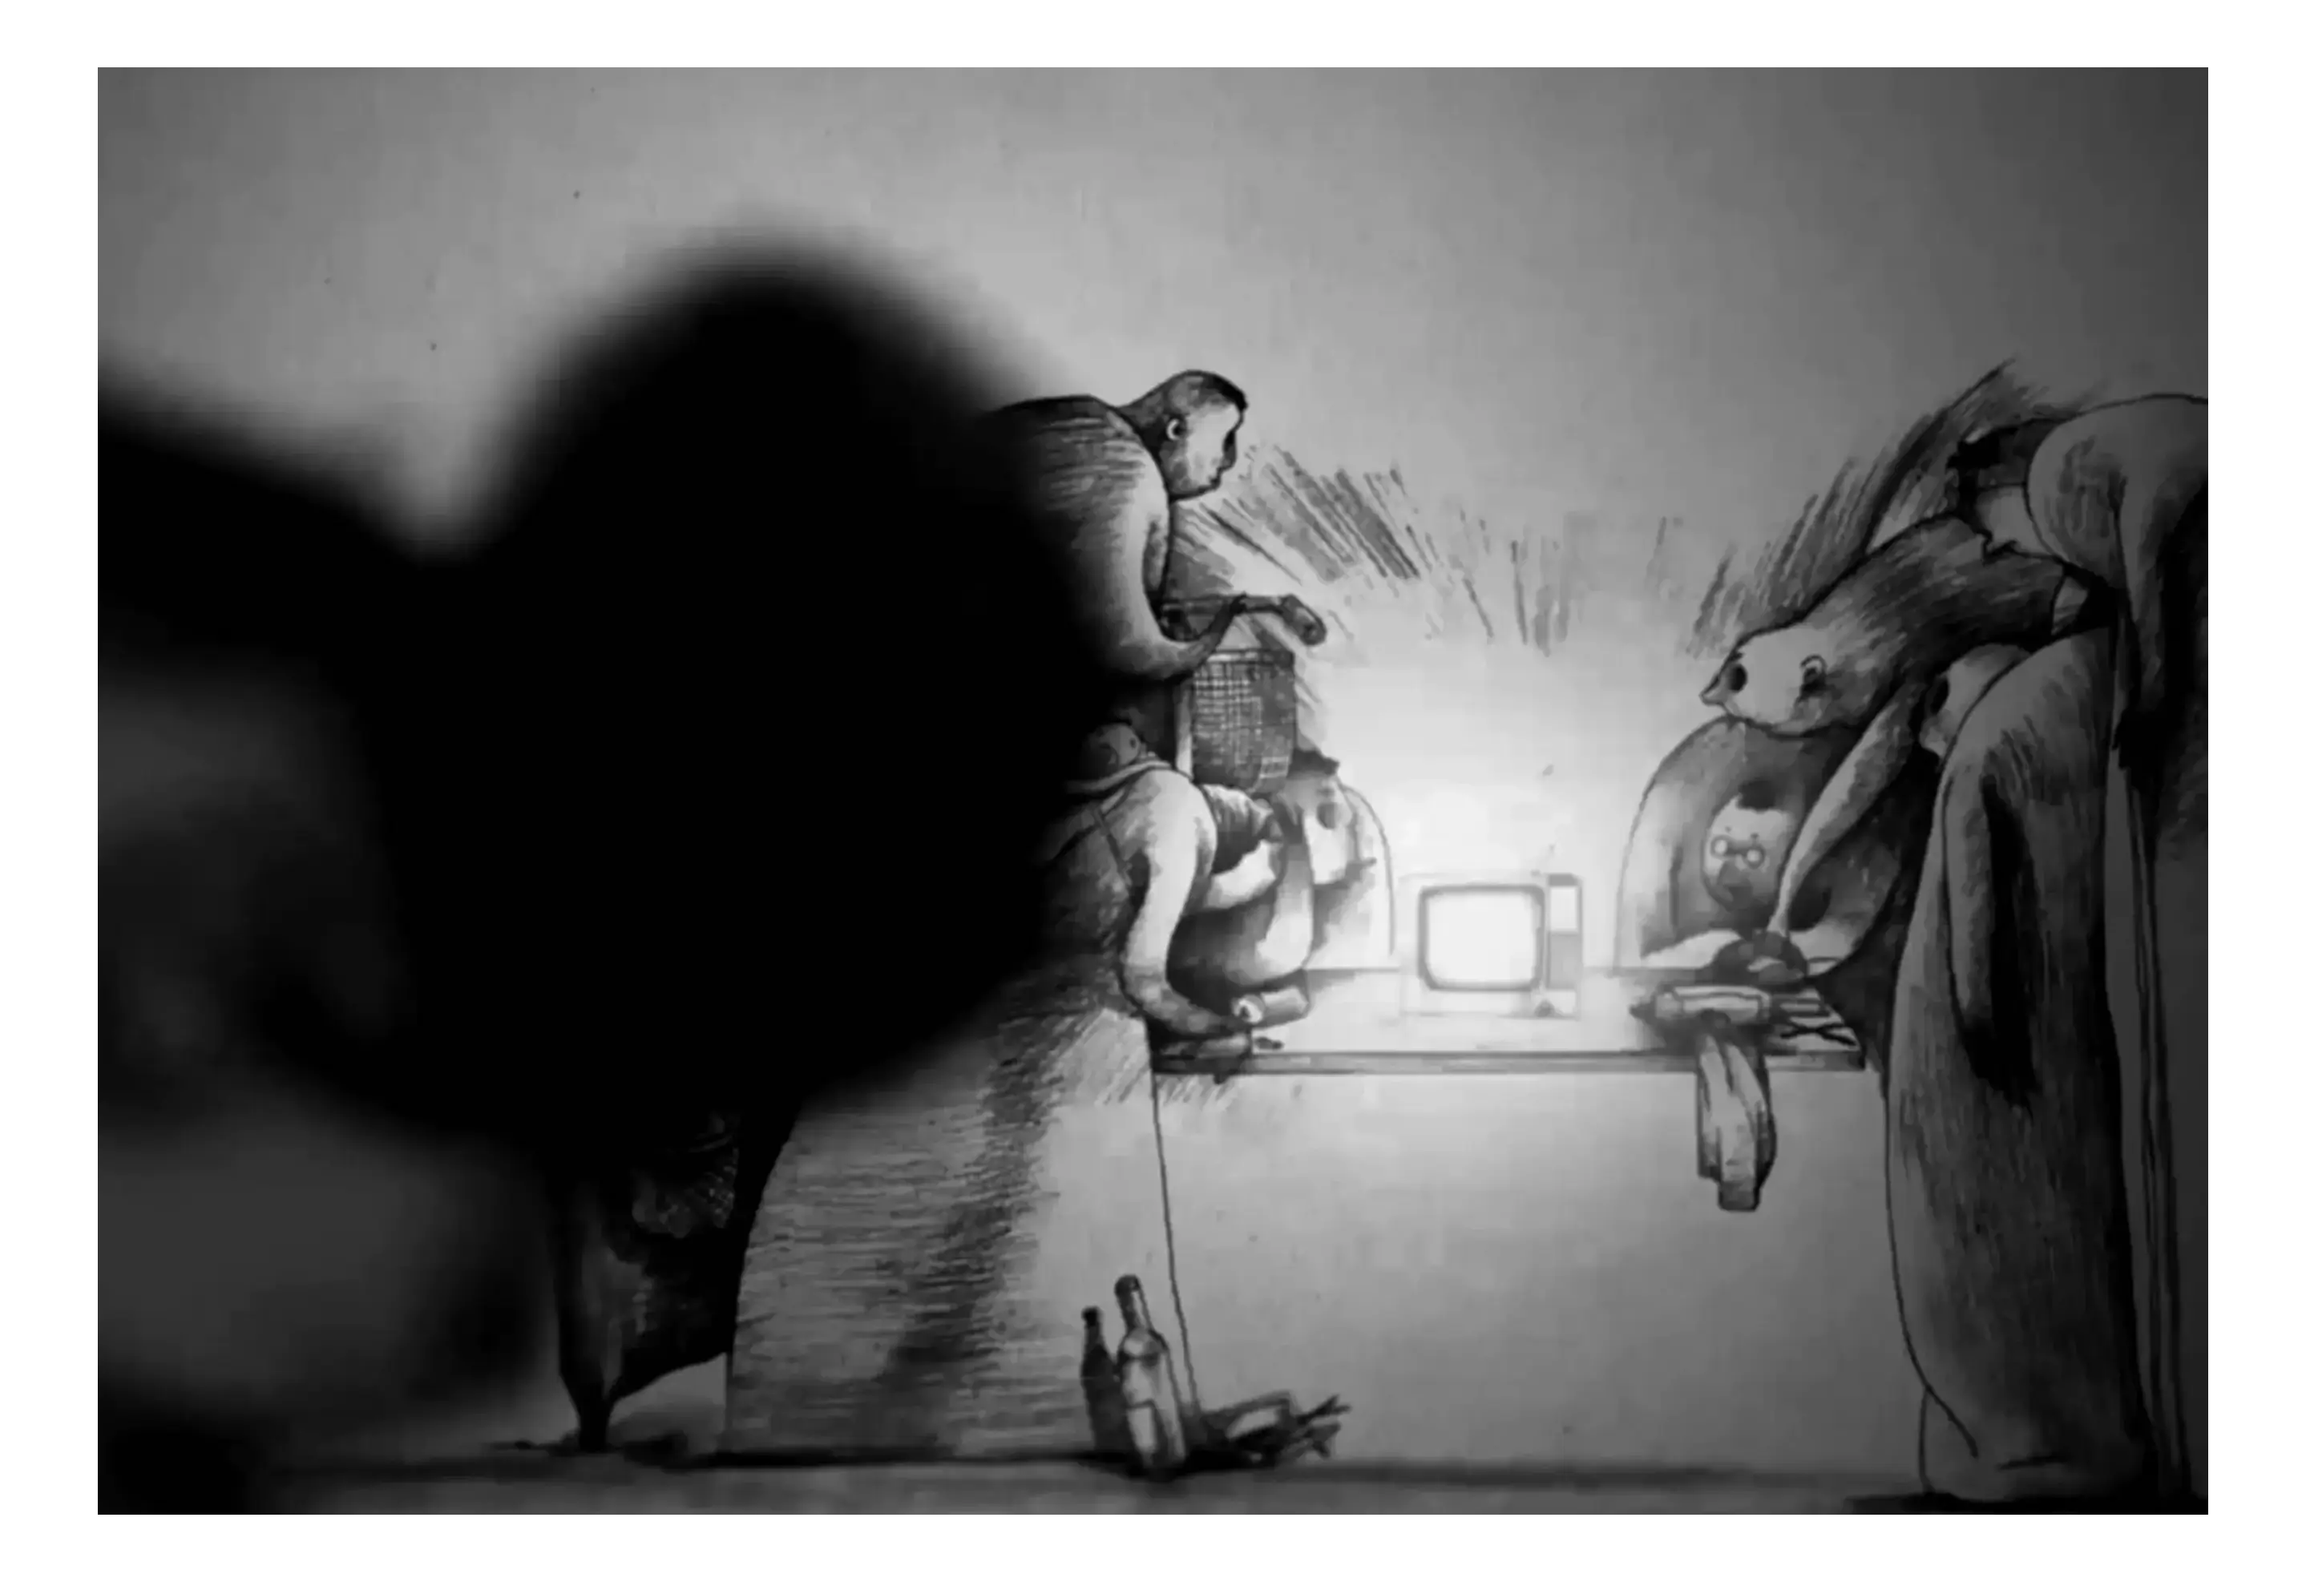
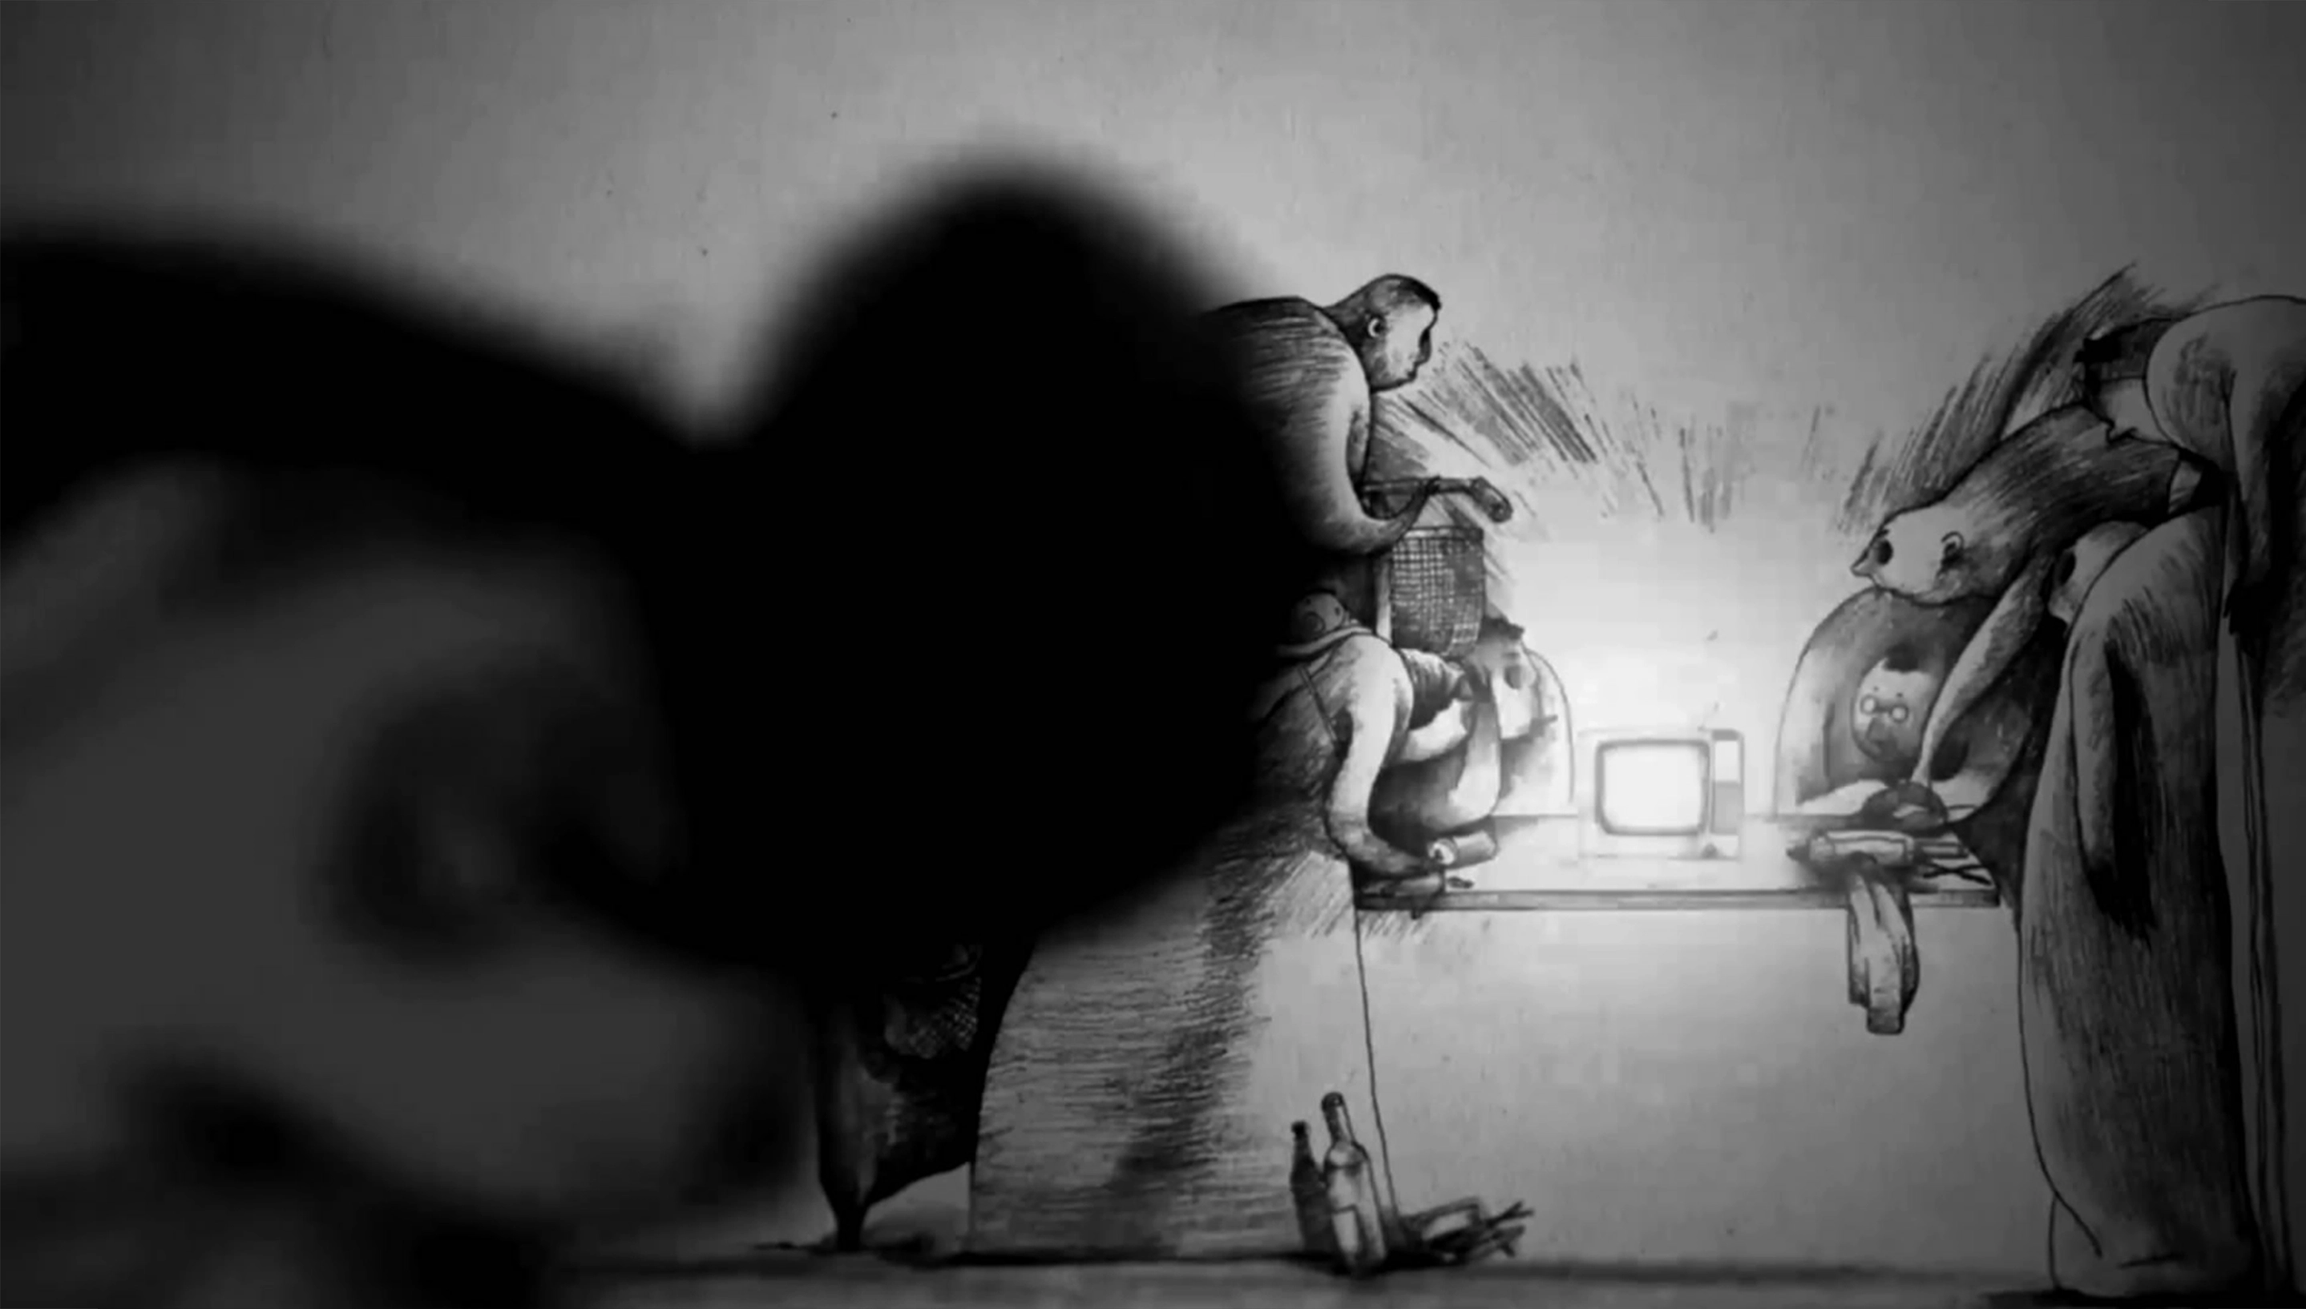
s a d

diff --git a/src/components/ParallaxHero.tsx b/src/components/ParallaxHero.tsx
@@ -1,4 +1,4 @@
-import { useRef, useState, useEffect, useCallback, useMemo } from "react";
+import { useRef, useState, useEffect, useCallback } from "react";
 import { ChevronDown } from "lucide-react";
 import { ParallaxLayer } from "@/data/projects";
 
@@ -58,16 +58,17 @@ const ParallaxHero = ({ layers, singleImage, title, type, year, glowColor, onScr
   return (
     <div className="relative w-full h-screen overflow-hidden bg-black">
       {effectiveLayers.map((layer, i) => {
-        // Each layer scrolls at (1 - speed) of normal scroll speed
-        // speed=0.1 → moves at 0.9 of scroll → lags behind by 10% (slowest, background)
-        // speed=0.4 → moves at 0.6 of scroll → lags behind by 40% (fastest parallax offset)
-        // The negative translateY makes layers appear to move up slower than the page scroll
-        // Background: moves down; Mid: static; Foreground: moves up
+        // 1. 降低手机端视差位移幅度（避免图片快速出界）
         const parallaxOffset = isMobile
-          ? (i === 0 ? scrollY * 0.05 : i === 1 ? 0 : -scrollY * 0.1)
-          : (i === 0 ? scrollY * 0.15 : i === 1 ? 0 : -scrollY * 0.3);
-        const baseScale = isMobile ? 1.15 : 1.35;
-        const scale = (layer as any).scaleBase ? ((layer as any).scaleBase + (isMobile ? -0.2 : 0)) : (baseScale - i * 0.05);
+          ? (i === 0 ? scrollY * 0.2 : i === 1 ? 0 : -scrollY * 0.2)
+          : (i === 0 ? scrollY * 0.5 : i === 1 ? 0 : -scrollY * 0.8);
+        
+        // 2. 优化手机端缩放（仅轻微缩小，避免图片过小）
+        const baseScale = isMobile ? 1.1 : 1.35; // 手机端基础缩放从1→1.1（轻微放大）
+        const scale = (layer as any).scaleBase 
+          ? ((layer as any).scaleBase + (isMobile ? -0.15 : 0)) // 缩小幅度从-0.5→-0.15
+          : (baseScale - i * 0.03); // 图层间缩放差异减小
+        
         const isVignette = (layer as any).overlay === "vignette";
 
         if (isVignette) {
@@ -94,13 +95,22 @@ const ParallaxHero = ({ layers, singleImage, title, type, year, glowColor, onScr
               transform: `translateY(${parallaxOffset}px) scale(${scale})`,
               zIndex: i,
               willChange: "transform",
+              // 可选：手机端加轻微内边距，保护核心内容不被裁
+              padding: isMobile ? '2% 0' : 0,
+              boxSizing: 'border-box'
             }}
           >
             {layer.src && (
               <img
                 src={layer.src}
                 alt={`Layer ${i + 1}`}
+                // 3. 保留object-cover保证占比，仅调整objectPosition控制裁剪区域
                 className="absolute inset-0 w-full h-full object-cover"
+                style={{ 
+                  // 关键：控制裁剪锚点，优先显示图片上部/中心
+                  objectPosition: isMobile ? 'center 15%' : 'center center',
+                  // 移除img的transform，避免和外层冲突
+                }}
                 loading={i === 0 ? "eager" : "lazy"}
                 decoding={i === 0 ? "auto" : "async"}
               />
